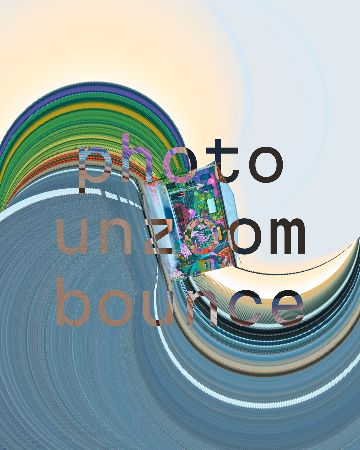
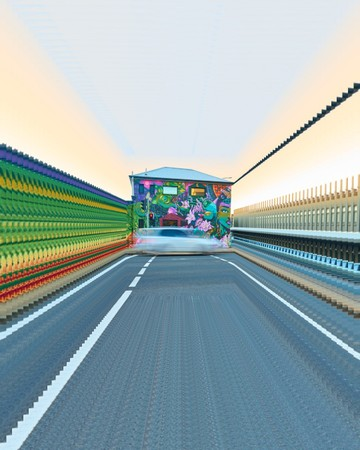
refactor(photo-unzoom-bounce): Simplify sketch configuration and remove unused features
- Remove unused imports (string, shapes) and simplify draw function parameters
- Extract background rendering into dedicated applyBackground() function with fallback color support
- Migrate all sketch options to nested options.sketch namespace for better organization
- Remove debug UI elements (lines, duration bar, title text overlay)
- Simplify options.json to only include consumeTestImages flag
- Restructure options.ts with cleaner formValues and formConfiguration using sketch-specific properties
- Update all option references throughout sketch to use options.sketch namespace
- Reduce default count from 200 to 100 and adjust scale easing defaults
- Regenerate thumbnail.jpeg with updated sketch behavior

diff --git a/src/p5-sketches/sketches/photo-unzoom-bounce/index.js b/src/p5-sketches/sketches/photo-unzoom-bounce/index.js
@@ -1,18 +1,16 @@
 import options from "../../utils/options.js";
 
 import cache from "../../utils/cache.js";
-import string from "../../utils/string.js";
 import easing from "../../utils/easing.js";
 import sketch from "../../utils/sketch.js";
 
-import shapes from "../../utils/shapes.js";
 import mappers from "../../utils/mappers.js";
 import animation from "../../utils/animation.js";
 import imageUtils from "../../utils/imageUtils.js";
 
 sketch.setup(
   () => {
-    background( ...options.colors.background );
+    applyBackground()
   },
   {
     size: {
@@ -26,29 +24,22 @@ sketch.setup(
   }
 );
 
+function applyBackground() {
+  background( ...( options.sketch?.backgroundColor ?? [
+    255,
+    255,
+    255
+  ] ) );
+}
+
 sketch.draw( (
-  _time, center, favoriteColor
+  _time
 ) => {
   const images = cache.get( "images" );
 
-  background( ...options.colors.background );
+  applyBackground()
 
-  if ( options.lines || false ) {
-    stroke( options.colors.accent );
-    stroke( 0 );
-
-    shapes.hl( 0 );
-    shapes.hl( height );
-
-    shapes.vl( 0 );
-    shapes.vl( width );
-  }
-
-  if ( options.durationBar || true ) {
-    shapes.sketchDurationBar( color( ...options.colors.accent ) );
-  }
-
-  const count = options.count || 20;
+  const count = options.sketch.count;
   const imageIndexes = images.map( (
     _, index
   ) => index );
@@ -62,14 +53,13 @@ sketch.draw( (
     img, filename
   } = images[ imageIndex ];
 
-  const imageStepAnimationProgression = options.animationProgression || "triangleProgression";
-  // const imageStepAnimationProgression = options.animationProgression || "linearProgression";
+  const imageStepAnimationProgression = options.sketch.animationProgression;
   const imageStepAnimationProgressionComponent = animation?.[ imageStepAnimationProgression ];
   const isImageStepAnimationProgressionComponentFunction = typeof imageStepAnimationProgressionComponent === "function";
 
   const imageStepIndexMapValue = isImageStepAnimationProgressionComponentFunction ? imageStepAnimationProgressionComponent( images.length ) : imageStepAnimationProgressionComponent;
-  const imageStepMin = options.zoom ? 1 : 0;
-  const imageStepMax = options.zoom ? 0 : 1;
+  const imageStepMin = options.sketch.zoom ? 1 : 0;
+  const imageStepMax = options.sketch.zoom ? 0 : 1;
   const imageStepIndex = map(
     imageStepIndexMapValue,
     imageStepMin,
@@ -84,8 +74,7 @@ sketch.draw( (
     }
 
     const t = i / count;
-    const scaleEasingFunction = options?.scaleEasingFunctionName || "easeOutQuad";
-    // const scaleEasingFunction = options?.scaleEasingFunctionName || "easeOutBounce";
+    const scaleEasingFunction = options.sketch.scaleEasingFunctionName;
 
     push();
     translate(
@@ -93,7 +82,7 @@ sketch.draw( (
       height / 2
     );
 
-    if ( options.rotate || false ) {
+    if ( options.sketch.rotate ) {
       rotate( map(
         i,
         0,
@@ -114,35 +103,13 @@ sketch.draw( (
       scale: mappers.fn(
         t,
         1,
-        Number( options.scaleStart ) || 0,
-        Number( options.scaleEnd ) || 0,
+        Number( options.sketch.scaleStart ),
+        Number( options.sketch.scaleEnd ),
         1,
         easing?.[ scaleEasingFunction ]
       )
     } );
 
     pop();
-  }
-
-  if ( animation.progression < 0.1 ) {
-    string.write(
-      options.name.replaceAll(
-        "-",
-        "\n"
-      ),
-      0,
-      height / 2,
-      {
-        size: 172,
-        stroke: color( ...options.colors.text ),
-        fill: color( ...options.colors.background ),
-        font: string.fonts.martian,
-        textAlign: [
-          CENTER,
-          CENTER
-        ],
-        blendMode: EXCLUSION
-      }
-    );
   }
 } );

diff --git a/src/p5-sketches/sketches/photo-unzoom-bounce/options.ts b/src/p5-sketches/sketches/photo-unzoom-bounce/options.ts
@@ -1,116 +1,74 @@
-import {
-  fontNames
-} from "@/components/ClientProcessingSketch/components/TemplateOptions/components/ContentItems/constants/field-config";
+import easing from "@/p5-sketches/utils/easing";
 
 export const formValues = {
-  title: {
-    content: "500",
-    font: "cloitre"
-  },
-
-  colors: {
-    text: [
-      0,
-      0,
-      0
-    ] as [number, number, number],
-    background: [
-      230,
-      230,
-      230
-    ] as [number, number, number],
-    accent: [
-      128,
-      128,
+  count: 100,
+  zoom: false,
+  rotate: false,
+  scaleStart: 0,
+  scaleEnd: 0.3,
+  scaleEasingFunctionName: "easeInQuint",
+  animationProgression: "linearProgression",
+  backgroundColor: [
+      255,
+      255,
       255
-    ] as [number, number, number]
-  },
-
-  animation: {
-    duration: 12,
-    framerate: 60
-  },
-
-  count: 200,
-  lines: false,
-  rotate: true
+    ]
 };
 
 export const formConfiguration: Record<string, any> = {
-  title: {
-    label: "Title",
-    component: "nested-object",
-    fields: {
-      content: {
-        label: "Content",
-        component: "text"
-      },
-      font: {
-        label: "Font",
-        component: "select",
-        options: fontNames.map( fontName => ( {
-          value: fontName,
-          label: fontName
-        } ) )
-      }
-    }
-  },
-
-  colors: {
-    label: "Colors",
-    component: "nested-object",
-    fields: {
-      text: {
-        component: "color",
-        label: "Text color"
-      },
-      background: {
-        component: "color",
-        label: "Background color"
-      },
-      accent: {
-        component: "color",
-        label: "Accent color"
-      }
-    }
-  },
-
-  animation: {
-    label: "Animation",
-    component: "nested-object",
-    fields: {
-      duration: {
-        component: "slider",
-        label: "Duration (seconds)",
-        min: 1,
-        max: 60,
-        step: 0.5
-      },
-      framerate: {
-        component: "slider",
-        label: "Framerate",
-        min: 1,
-        max: 120,
-        step: 1
-      }
-    }
-  },
-
   count: {
+    label: "Image steps count",
     component: "slider",
-    label: "Count",
-    min: 10,
-    max: 500,
-    step: 10
+    min: 1,
+    max: 1000,
+    step: 1
   },
-
-  lines: {
+  zoom: {
+    label: "Zoom mode (instead of unzoom)",
     component: "checkbox",
-    label: "Show lines"
   },
-
   rotate: {
+    label: "Rotate images",
     component: "checkbox",
-    label: "Rotate"
-  }
+  },
+  scaleStart: {
+    label: "Scale start",
+    component: "slider",
+    min: 0,
+    max: 2,
+    step: 0.1
+  },
+  scaleEnd: {
+    label: "Scale end",
+    component: "slider",
+    min: 0,
+    max: 2,
+    step: 0.1
+  },
+  scaleEasingFunctionName: {
+    component: "select",
+    label: "Scale easing",
+    options: Object.keys(easing).map(easingFunctionName => ({
+      label: easingFunctionName,
+      value: easingFunctionName,
+    }))
+  },
+  animationProgression: {
+    component: "select",
+    label: "Animation progression",
+    options: [
+      {
+        label: "Triangle progression",
+        value: "triangleProgression",
+      },
+      {
+        label: "Linear progression",
+        value: "linearProgression",
+      }
+    ]
+  },
+   backgroundColor: {
+    component: "color",
+    label: "Background color"
+  },
 };
